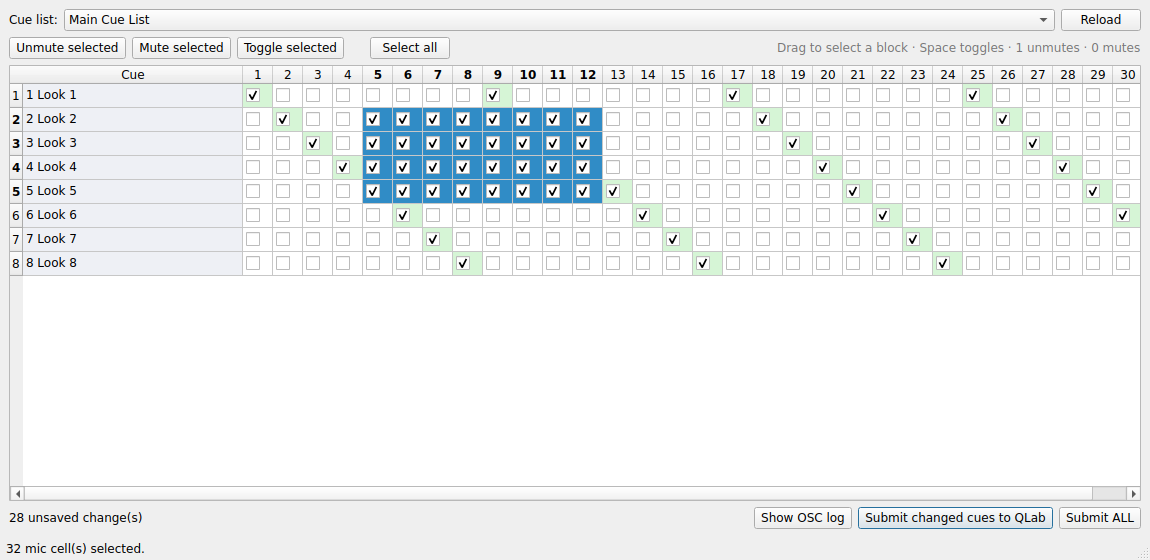
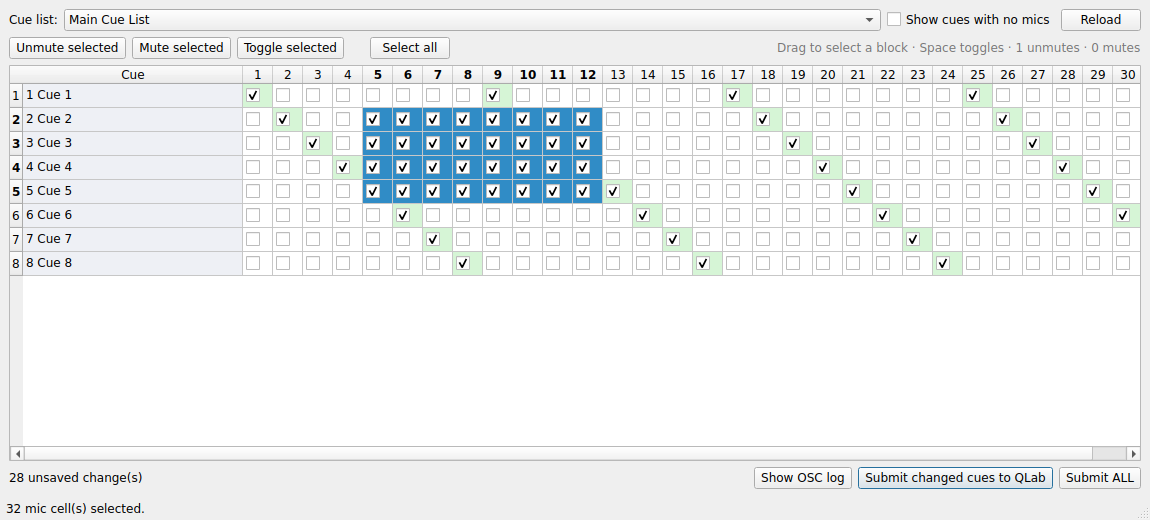
Handle nested Mics groups and hide non-mic cues
Match the common show structure where each cue is a Group containing a nested
'Mics' group (plus audio/lights/video siblings), with standalone non-group
cues sprinkled between cues.

- Search each top-level cue's whole subtree for mic cues (any nesting depth)
- Hide top-level cues with no mics by default; add a 'Show cues with no mics'
  toggle and show_empty_rows config
- Add optional mics_group_name filter to restrict the search to a named group
- Update mock/demo show to nest mics and include non-mic + standalone cues
- Tests for nested discovery, empty-row filtering, and the group-name filter

https://claude.ai/code/session_01NVpmYubyTSsqskdD8Afh39

Changed region(s): [[0.0, 0.0, 1.0, 0.5538], [0.0, 0.8308, 1.0, 1.0]]

diff --git a/qlabflash/model.py b/qlabflash/model.py
@@ -122,15 +122,51 @@ class GridModel:
         return chan, unmuted
 
     # -- Building the grid -------------------------------------------------
-    def build(self, top_level_cues: List[Cue], get_text: Callable[[str], Optional[str]]):
+    def _mic_search_space(self, top_cue: Cue, name_filter: str):
+        """Yield the cues to scan for mics within one top-level cue.
+
+        With no filter we scan the whole subtree (mics may be nested in a
+        "Mics" group, which ``walk`` reaches at any depth). With a filter we
+        restrict to the subtree(s) of any container whose name matches, which
+        avoids ever misreading a stray message in another sub-group.
+        """
+        if not name_filter:
+            yield from top_cue.walk()
+            return
+        for node in top_cue.walk():
+            if node.is_container and node.name.strip().lower() == name_filter:
+                yield from node.walk()
+
+    def candidate_uids(self, top_level_cues: List[Cue],
+                       mics_group_name: str = "") -> List[str]:
+        """UIDs whose OSC text must be fetched to populate the grid.
+
+        Honours the mics-group filter so we don't query unrelated audio/lights/
+        video cues when the filter is set.
+        """
+        name_filter = (mics_group_name or "").strip().lower()
+        uids: List[str] = []
+        for cue in top_level_cues:
+            for node in self._mic_search_space(cue, name_filter):
+                if not node.is_container:
+                    uids.append(node.uid)
+        return uids
+
+    def build(self, top_level_cues: List[Cue], get_text: Callable[[str], Optional[str]],
+              show_empty: bool = False, mics_group_name: str = ""):
         """Populate ``self.rows`` from the chosen cue list's top-level cues.
 
-        ``get_text(uid)`` returns a cue's OSC message text (or None).
+        ``get_text(uid)`` returns a cue's OSC message text (or None). Each
+        top-level cue (typically a Group like "Cue 12") becomes a row; mic cues
+        anywhere in its subtree fill the columns. Top-level cues with no mics
+        (standalone audio/lights/memo cues sprinkled between the real cues) are
+        dropped unless ``show_empty`` is set.
         """
+        name_filter = (mics_group_name or "").strip().lower()
         rows: List[CueRow] = []
         for cue in top_level_cues:
             row = CueRow(cue_uid=cue.uid, number=cue.number, name=cue.name)
-            for descendant in cue.walk():
+            for descendant in self._mic_search_space(cue, name_filter):
                 if descendant.is_container:
                     continue
                 parsed = self.parse_channel(get_text(descendant.uid) or "")
@@ -144,6 +180,8 @@ class GridModel:
                     original_unmuted=state,
                     unmuted=state,
                 )
+            if not row.cells and not show_empty:
+                continue
             rows.append(row)
         self.rows = rows
         return rows

diff --git a/tests/test_model.py b/tests/test_model.py
@@ -71,6 +71,57 @@ def test_mark_committed_resets_dirty():
     assert m.dirty_writes() == []
 
 
+def test_nested_mics_group_and_empty_row_filtering():
+    m = make_model()
+    cues = [
+        # A real cue: group -> Mics group (32) + non-mic siblings.
+        Cue(uid="cue1", number="1", name="Cue 1", type="Group", children=[
+            Cue(uid="mics1", number="", name="Mics", type="Group", children=[
+                Cue(uid="n1", number="", name="Ch1", type="Network"),
+                Cue(uid="n2", number="", name="Ch2", type="Network"),
+            ]),
+            Cue(uid="lx1", number="", name="Lights", type="Network"),
+        ]),
+        # A standalone cue sprinkled between — no mics.
+        Cue(uid="note1", number="", name="Note", type="Memo"),
+    ]
+    texts = {
+        "n1": "/ch/01/mix/on 1",
+        "n2": "/ch/02/mix/on 0",
+        "lx1": "/eos/chan/1/out 100",  # non-mic, must be ignored
+    }
+    rows = m.build(cues, lambda uid: texts.get(uid))
+    # The standalone Note cue is dropped; only the real cue remains.
+    assert len(rows) == 1
+    assert rows[0].label == "1 Cue 1"
+    assert set(rows[0].cells) == {1, 2}  # mics found despite nesting
+
+    # show_empty keeps the empty standalone cue as a row.
+    rows = m.build(cues, lambda uid: texts.get(uid), show_empty=True)
+    assert len(rows) == 2
+
+
+def test_mics_group_name_filter_restricts_search():
+    m = make_model()
+    cues = [Cue(uid="cue1", number="1", name="Cue 1", type="Group", children=[
+        Cue(uid="mics1", number="", name="Mics", type="Group", children=[
+            Cue(uid="n1", number="", name="Ch1", type="Network"),
+        ]),
+        # A stray mic-looking message OUTSIDE the Mics group.
+        Cue(uid="stray", number="", name="FX", type="Network"),
+    ])]
+    texts = {"n1": "/ch/01/mix/on 1", "stray": "/ch/05/mix/on 1"}
+
+    # No filter: both are picked up.
+    rows = m.build(cues, lambda uid: texts.get(uid))
+    assert set(rows[0].cells) == {1, 5}
+    # With filter: only the one inside the "Mics" group.
+    rows = m.build(cues, lambda uid: texts.get(uid), mics_group_name="Mics")
+    assert set(rows[0].cells) == {1}
+    # candidate_uids honours the filter too.
+    assert m.candidate_uids(cues, mics_group_name="Mics") == ["n1"]
+
+
 def test_leaf_uids_skips_containers():
     cue = Cue(uid="g1", number="1", name="L1", type="Group", children=[
         Cue(uid="n1", number="", name="", type="Network"),

diff --git a/qlabflash/mock_qlab.py b/qlabflash/mock_qlab.py
@@ -28,25 +28,49 @@ def _make_show(num_looks: int = 6, mic_count: int = 32):
 
     list_cues = []
     for look in range(1, num_looks + 1):
-        group_uid = f"group-{look}"
-        children = []
+        # 32 mic cues live inside a nested "Mics" group, mirroring a typical
+        # show: Cue N (group) -> { Mics (group of 32), Audio, Lights, Video }.
+        mic_children = []
         for chan in range(1, mic_count + 1):
             uid = f"net-{look}-{chan}"
             # Open mics: a rotating handful per look, everything else muted.
             on = 1 if (chan % num_looks) == (look % num_looks) else 0
             texts[uid] = f"/ch/{chan:02d}/mix/on {on}"
-            children.append({
+            mic_children.append({
                 "uniqueID": uid,
                 "number": f"{look}.{chan}",
                 "name": f"Ch {chan} {'ON' if on else 'OFF'}",
                 "type": "Network",
             })
-        list_cues.append({
-            "uniqueID": group_uid,
-            "number": str(look),
-            "name": f"Look {look}",
+        mics_group = {
+            "uniqueID": f"mics-{look}",
+            "number": "",
+            "name": "Mics",
             "type": "Group",
-            "cues": children,
+            "cues": mic_children,
+        }
+        # Non-mic siblings inside the cue group (must be ignored by the grid).
+        siblings = [
+            {"uniqueID": f"aud-{look}", "number": "", "name": "Audio",
+             "type": "Audio"},
+            {"uniqueID": f"lx-{look}", "number": "", "name": "Lights",
+             "type": "Network"},
+        ]
+        texts[f"lx-{look}"] = "/eos/chan/1/out 100"  # non-mic OSC, won't match
+        list_cues.append({
+            "uniqueID": f"group-{look}",
+            "number": str(look),
+            "name": f"Cue {look}",
+            "type": "Group",
+            "cues": [mics_group] + siblings,
+        })
+        # A standalone non-group cue sprinkled between cues (should be hidden,
+        # since it has no mics).
+        list_cues.append({
+            "uniqueID": f"note-{look}",
+            "number": "",
+            "name": f"Note {look}",
+            "type": "Memo",
         })
 
     cue_lists.append({

diff --git a/qlabflash/gui/main_window.py b/qlabflash/gui/main_window.py
@@ -7,8 +7,8 @@ from typing import Optional
 from PySide6.QtCore import Qt, QObject, Signal
 from PySide6.QtGui import QAction
 from PySide6.QtWidgets import (
-    QComboBox, QHBoxLayout, QHeaderView, QLabel, QMainWindow, QMessageBox,
-    QPlainTextEdit, QPushButton, QVBoxLayout, QWidget,
+    QCheckBox, QComboBox, QHBoxLayout, QHeaderView, QLabel, QMainWindow,
+    QMessageBox, QPlainTextEdit, QPushButton, QVBoxLayout, QWidget,
 )
 
 from ..config import Config
@@ -54,6 +54,11 @@ class MainWindow(QMainWindow):
         self.cuelist_combo = QComboBox()
         self.cuelist_combo.currentIndexChanged.connect(self._on_cuelist_changed)
         top.addWidget(self.cuelist_combo, 1)
+
+        self.empty_check = QCheckBox("Show cues with no mics")
+        self.empty_check.setChecked(self.config.show_empty_rows)
+        self.empty_check.toggled.connect(self._on_show_empty_toggled)
+        top.addWidget(self.empty_check)
 
         self.reload_btn = QPushButton("Reload")
         self.reload_btn.clicked.connect(self._reload)
@@ -154,6 +159,11 @@ class MainWindow(QMainWindow):
     def _reload(self) -> None:
         idx = max(0, self.cuelist_combo.currentIndex())
         self._load_grid(idx)
+
+    def _on_show_empty_toggled(self, checked: bool) -> None:
+        self.config.show_empty_rows = checked
+        if self.table_model is not None:
+            self._reload()
 
     def _load_grid(self, index: int) -> None:
         if self._has_unsaved() and not self._confirm_discard():

diff --git a/qlabflash/session.py b/qlabflash/session.py
@@ -36,17 +36,20 @@ class WorkspaceSession:
         cue_list = self.cue_lists[min(cue_list_index, len(self.cue_lists) - 1)]
         top_level = cue_list.children
 
-        # Gather every leaf cue under this list, then fetch their OSC messages.
-        leaf_uids: List[str] = []
-        for cue in top_level:
-            leaf_uids.extend(cue.leaf_uids())
+        # Fetch the OSC text of every candidate mic cue (honouring the optional
+        # mics-group filter), then build the grid.
+        leaf_uids = self.model.candidate_uids(
+            top_level, mics_group_name=self.config.mics_group_name)
         if progress:
             progress(f"Reading {len(leaf_uids)} cues...")
 
         prop = self.config.osc_message_property
         texts = self.client.get_cue_properties(self.workspace_id, leaf_uids, prop)
 
-        self.model.build(top_level, lambda uid: texts.get(uid))
+        self.model.build(
+            top_level, lambda uid: texts.get(uid),
+            show_empty=self.config.show_empty_rows,
+            mics_group_name=self.config.mics_group_name)
         return self.model
 
     # -- submitting ---------------------------------------------------------

diff --git a/qlabflash/config.py b/qlabflash/config.py
@@ -29,6 +29,15 @@ class Config:
     # --- Mic grid ----------------------------------------------------------
     mic_count: int = 32
 
+    # Hide top-level cues that contain no mics (e.g. standalone audio/lights/
+    # video/memo cues sprinkled between the real cues).
+    show_empty_rows: bool = False
+
+    # Optional: restrict the mic search to the subtree of a group with this
+    # name (e.g. "Mics"). Empty means scan each cue's whole subtree, which is
+    # safe because matching is by OSC message anyway.
+    mics_group_name: str = ""
+
     # --- How mic state is stored in QLab cues ------------------------------
     # The QLab cue property that holds a network cue's outgoing OSC text. This
     # has historically been "customString". If your QLab build reports the

diff --git a/tests/test_roundtrip.py b/tests/test_roundtrip.py
@@ -38,10 +38,12 @@ def test_load_grid_and_submit(mock_and_client):
     session = WorkspaceSession(client, WORKSPACE_ID, config)
 
     model = session.load_grid()
-    assert len(model.rows) == 4               # 4 looks
-    # Every row should have all 32 mic cells backed by real cues.
+    assert len(model.rows) == 4               # 4 cues (standalone notes hidden)
+    # Every row should have all 32 mic cells backed by real cues, even though
+    # the mics live in a nested "Mics" group alongside audio/lights siblings.
     for row in model.rows:
         assert len(row.cells) == 32
+        assert row.label.startswith(("1 Cue", "2 Cue", "3 Cue", "4 Cue"))
 
     # Flip channel 5 in look 1 and submit.
     target = model.rows[0].cells[5]

diff --git a/README.md b/README.md
@@ -84,10 +84,28 @@ QLab Flash assumes the common QLab→X32 structure:
 - **Each row is a top-level cue** in the cue list — typically a **Group cue**
   for a given look/moment ("Cue 12 — Top of Act 2").
 - **Each mic is a Network (OSC) cue** somewhere inside that group whose message
-  tells the X32 to turn a channel on or off, e.g. `/ch/03/mix/on 1`.
+  tells the X32 to turn a channel on or off, e.g. `/ch/03/mix/on 1`. The mic
+  cues can be **nested** — e.g. inside a "Mics" sub-group alongside your audio /
+  lights / video cues. QLab Flash searches the whole subtree, at any depth, so
 
-QLab Flash scans each group for those per-channel messages, maps them onto the
+  ```
+  Cue 12  (group)            -> a row
+    ├ Mics (group)
+    │   ├ Ch 1 on            -> mic column 1
+    │   ├ Ch 2 on            -> mic column 2
+    │   └ …
+    ├ Audio                  -> ignored
+    ├ Lights                 -> ignored
+    └ Video                  -> ignored
+  ```
+
+  works out of the box.
+
+QLab Flash scans each cue for those per-channel messages, maps them onto the
 32 mic columns, and on Submit writes the message back with the new on/off value.
+Standalone, non-mic cues sprinkled between your cues (a memo, a lone audio cue)
+have no mics, so they're hidden by default — tick **"Show cues with no mics"**
+in the top bar if you want to see them.
 
 **It updates existing per-channel cues; it does not create new ones.** If a cue
 has no Network cue for, say, mic 7, that cell is shown dimmed and is skipped on
@@ -110,6 +128,8 @@ QLab Flash also saves your last host/port/passcode there automatically.
 | `qlab_host` | `127.0.0.1` | QLab's IP (use the Mac's own IP if QLab is elsewhere). |
 | `qlab_port` | `53000` | QLab's OSC receive port (don't change unless you must). |
 | `mic_count` | `32` | Number of mic columns. |
+| `show_empty_rows` | `false` | Show top-level cues that contain no mics. |
+| `mics_group_name` | `""` | If set (e.g. `"Mics"`), only scan the subtree of a group with this name — handy if another sub-group contains stray `/ch/...` messages. Empty = scan the whole cue. |
 | `osc_message_property` | `customString` | The QLab cue property holding a network cue's OSC text. If your QLab build reports it under another name, set it here. |
 | `channel_pattern` | see file | Regex with named groups `chan` and `state` used to recognise a mic cue and read its channel + on/off value. |
 | `write_template` | `/ch/{chan:02d}/mix/on {state}` | How a mic cue's message is written back. |
